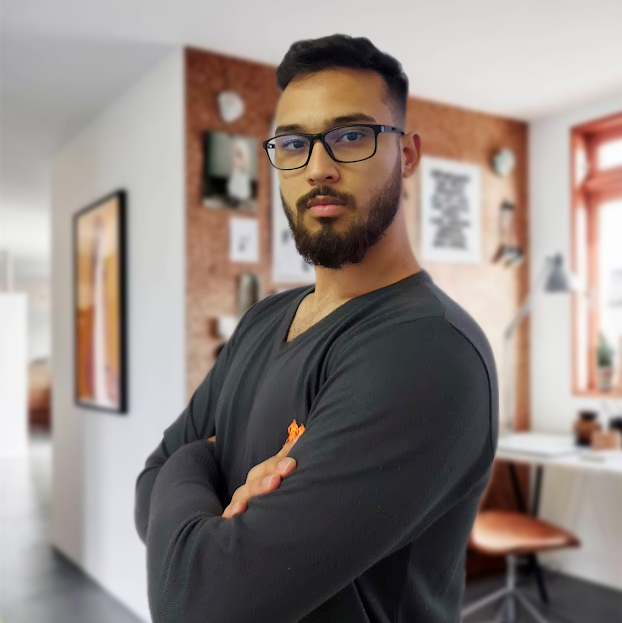
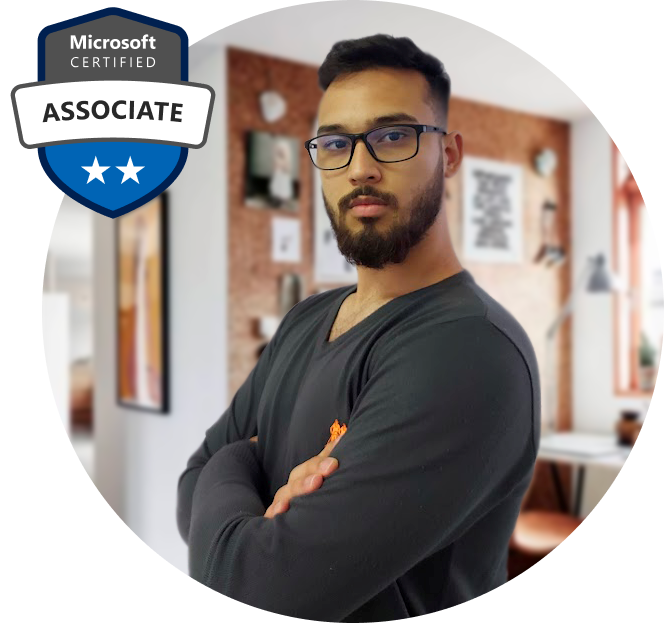
Ajustes

diff --git a/index.html b/index.html
@@ -39,24 +39,25 @@
         <!-- Masthead-->
         <header class="masthead">
             <div class="container">
-                <img src="assets\img\team\LeoVitorino.png" width="300" height="300" class="rounded-circle my-3">
+                <img src="assets\img\team\LeoVitorino.png" width="300" height="279.21">
                 <div class="masthead-subheading">Bem-vindo ao meu portfólio!</div>
                 <div class=" mt-3" class="container">
                     <div class="text-center">
-                        <div class="text-white-50"> Profissional com mais de dois anos de experiência no mercado de business intelligence entendendo negócios e desenvolvendo soluções que atendam a plenitude da necessidade informacional para tomada de decisão de mais de 8 mil usuários, entremeada à visão de proporcionar a mais eficiente solução e implantação de BI nos setores.
+                        <div class="text-white-50"> Profissional certificado pela Microsoft e com mais de dois anos de experiência em business intelligence, entendendo negócios e desenvolvendo soluções que atendam a plenitude da necessidade informacional para tomada de decisão de mais de 8 mil usuários, entremeada à visão de proporcionar a mais eficiente solução e implantação de BI nos setores.
                             Realizar a coleta e análise de requisitos para desenvolver e oferecer suporte a soluções do Microsoft Power BI, Oracle SQL, Pentaho e Python.</div>
                         </div>
                 </div>
             </div>
         </header>
 
-
-        <!-- Portfolio Grid-->
-        <div class="text-center">
+       <!-- Aviso-->
+       <div class="text-center">
         <div class="alert alert-warning" role="alert">
             Site em desenvolvimento!
           </div>
         </div>
+
+       <!-- Portfolio Grid-->
         <section class="page-section bg-light" id="portfolio">
             <div class="container">
                 <div class="text-center">
@@ -513,6 +514,10 @@
         <section class="page-section bg-light" id="team">
             <div class="container">
 <!-- Gallery -->
+<div class="text-center">
+    <h2 class="section-heading text-uppercase">Certificados</h2>
+    <h3 class="section-subheading text-muted"> </h3>
+</div>
 <div class="row">
     <div class="col-lg-4 col-md-12 mb-4 mb-lg-0">
       <img

diff --git a/css/styles.css b/css/styles.css
@@ -11289,7 +11289,7 @@ p {
 }
 
 .page-section {
-  padding: 6rem 0;
+  padding: 3rem 0;
 }
 .page-section h2.section-heading, .page-section .section-heading.h2 {
   font-size: 2.5rem;
@@ -11764,4 +11764,9 @@ section#contact form#contactForm :-ms-input-placeholder {
   text-align: center;
   font-size: 0.9rem;
   font-family: "Montserrat", -apple-system, BlinkMacSystemFont, "Segoe UI", Roboto, "Helvetica Neue", Arial, sans-serif, "Apple Color Emoji", "Segoe UI Emoji", "Segoe UI Symbol", "Noto Color Emoji";
+}
+
+.test {
+  width: 14rem;
+  height: 14rem;
 }
